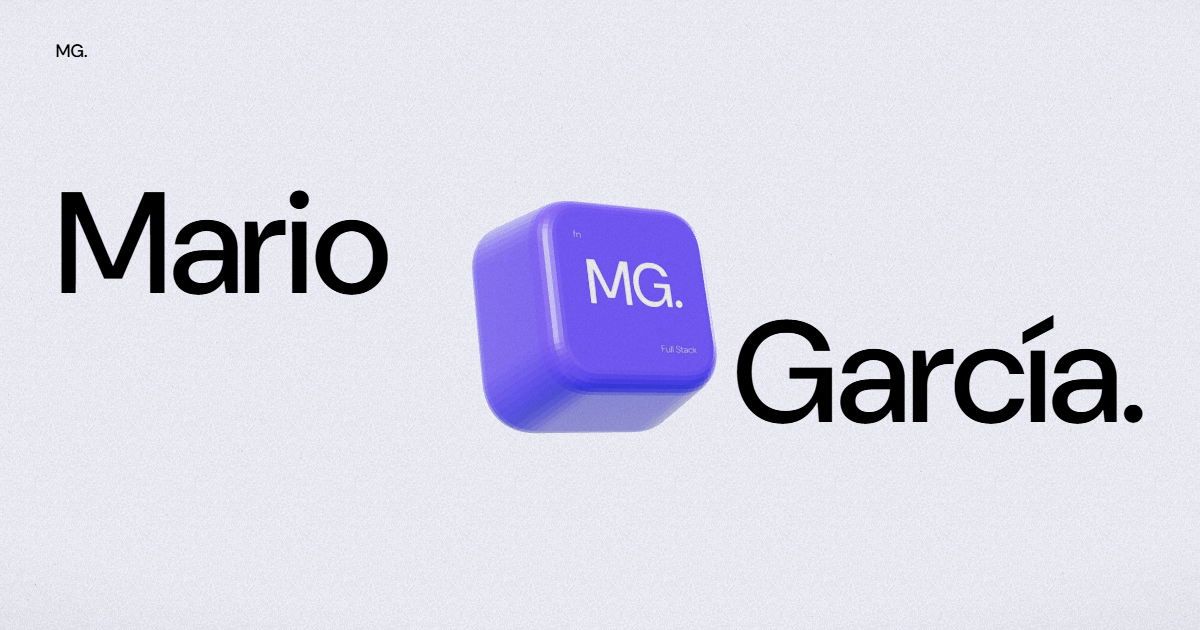
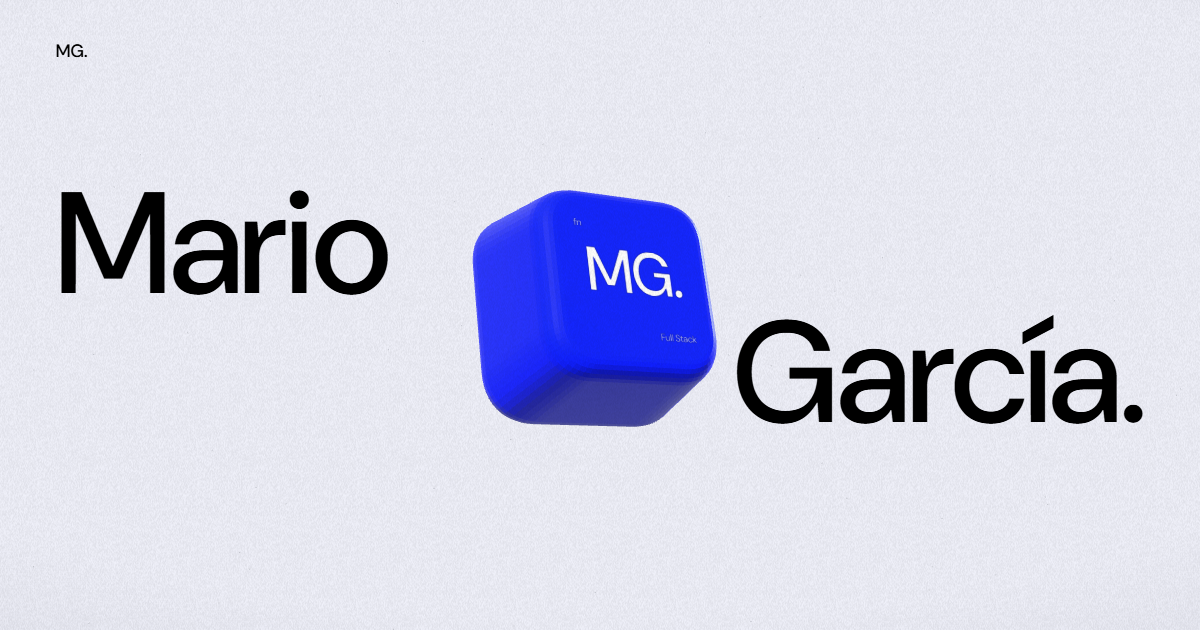
fix: unify the accent colour and polish mobile details
- Render the signature key in the exact UI accent: no tone mapping, lower
  specular reflectance and a calibrated albedo, with flat, unlit legends
- Use the key's violet for the Relpa logo symbol so both match
- Keep stack tags at their natural height on narrow screens
- Stack the footer credit on two lines on mobile
- Refresh the social preview image

Changed region(s): [[0.37, 0.3016, 0.6167, 0.6937]]

diff --git a/src/scene/KeyboardScene.ts b/src/scene/KeyboardScene.ts
@@ -29,7 +29,7 @@ interface Key {
   group: THREE.Group
   body: THREE.Mesh
   bodyMaterial: THREE.MeshStandardMaterial
-  legendMaterial: THREE.MeshStandardMaterial
+  legendMaterial: THREE.MeshStandardMaterial | THREE.MeshBasicMaterial
   stackLegend: THREE.Texture
   messageLegend: THREE.Texture
   currentLegend: THREE.Texture
@@ -133,24 +133,32 @@ export class KeyboardScene {
       const stackLegend = upload(
         index === SIGNATURE_KEY ? legends.signature(definition) : legends.skill(definition),
       )
-      const bodyMaterial = new THREE.MeshStandardMaterial({
+      // The signature key must read as the UI accent: tone mapping would shift its blue towards violet,
+      // and strong reflections would wash it out. Its albedo in KEY_BODY_COLORS is calibrated for this.
+      const isSignature = definition.color === 'indigo'
+      const bodyMaterial = new (isSignature ? THREE.MeshPhysicalMaterial : THREE.MeshStandardMaterial)({
         color: linearColor(KEY_BODY_COLORS[definition.color]),
-        roughness: definition.color === 'indigo' ? 0.36 : 0.52,
+        roughness: isSignature ? 0.5 : 0.52,
+        toneMapped: !isSignature,
         metalness: 0,
-        envMapIntensity: 0.95,
+        envMapIntensity: isSignature ? 0.45 : 0.95,
         emissive: linearColor('#3a4bff'),
         emissiveIntensity: 0,
       })
-      const legendMaterial = new THREE.MeshStandardMaterial({
+      // Physical material only to lower specular reflectance, which would whiten the accent colour.
+      if (bodyMaterial instanceof THREE.MeshPhysicalMaterial) bodyMaterial.reflectivity = 0.15
+      const decal = {
         map: stackLegend,
         transparent: true,
-        roughness: 0.3,
-        metalness: 0,
         depthWrite: false,
         polygonOffset: true,
         polygonOffsetFactor: -2,
-        envMapIntensity: 0.6,
-      })
+      }
+      // The signature key's legends are printed flat, unlit, so the Relpa monogram matches the logo
+      // in the page exactly; the rest are lit like laser engraving.
+      const legendMaterial = isSignature
+        ? new THREE.MeshBasicMaterial({ ...decal, toneMapped: false })
+        : new THREE.MeshStandardMaterial({ ...decal, roughness: 0.3, metalness: 0, envMapIntensity: 0.6 })
       const body = new THREE.Mesh(bodyGeometry, bodyMaterial)
       body.userData.key = index
       const legend = new THREE.Mesh(legendGeometry, legendMaterial)

diff --git a/src/styles/sections/contact.css b/src/styles/sections/contact.css
@@ -98,13 +98,23 @@
   gap: 24px;
   flex-wrap: wrap;
 }
-.foot b {
-  font-weight: 500;
+/* Desktop: "Mario García + Full Stack Developer". Mobile: one line each, both led by a "+". */
+.foot-id {
+  display: flex;
+  flex-wrap: wrap;
+  column-gap: 0.4em;
+}
+.foot-id span::before {
   color: var(--indigo);
+  margin-right: 0.4em;
+}
+.foot-id span:last-child::before {
+  content: '+';
 }
 .foot {
   display: flex;
   justify-content: space-between;
+  align-items: flex-end;
   gap: 16px;
   flex-wrap: wrap;
   border-top: 1px solid var(--haze);
@@ -119,5 +129,12 @@
   }
   .contact-body > p {
     font-size: 16px;
+  }
+  .foot-id {
+    flex-direction: column;
+    gap: 2px;
+  }
+  .foot-id span::before {
+    content: '+';
   }
 }

diff --git a/index.html b/index.html
@@ -448,8 +448,8 @@
           </div>
         </div>
         <footer class="foot">
-          <span>Mario García <b>+</b> Full Stack Developer</span
-          ><a class="link" href="#inicio">Volver arriba ↑</a>
+          <p class="foot-id"><span>Mario García</span> <span>Full Stack Developer</span></p>
+          <a class="link" href="#inicio">Volver arriba ↑</a>
         </footer>
       </section>
     </main>

diff --git a/src/scene/constants.ts b/src/scene/constants.ts
@@ -2,8 +2,10 @@ import type { KeyColor } from '../content/keys'
 
 export const CAMERA = { fov: 30, z: 12 } as const
 
+/** Albedo of each key. */
 export const KEY_BODY_COLORS: Record<KeyColor, string> = {
-  indigo: '#1a2ffb',
+  // Calibrated so the lit top face renders as the UI accent #1a2ffb (see the signature material).
+  indigo: '#0a1cf6',
   paper: '#ffffff',
   graphite: '#2b2e3a',
   lime: '#c1ff00',

diff --git a/src/styles/sections/stack.css b/src/styles/sections/stack.css
@@ -107,6 +107,9 @@
   grid-row: 2;
   grid-column: 1/-1;
   visibility: hidden;
+  /* All tag lists share one cell sized by the longest; keep tags at their own height. */
+  align-items: flex-start;
+  align-content: flex-start;
 }
 .pinned .cat.on .cat-chips {
   visibility: visible;
